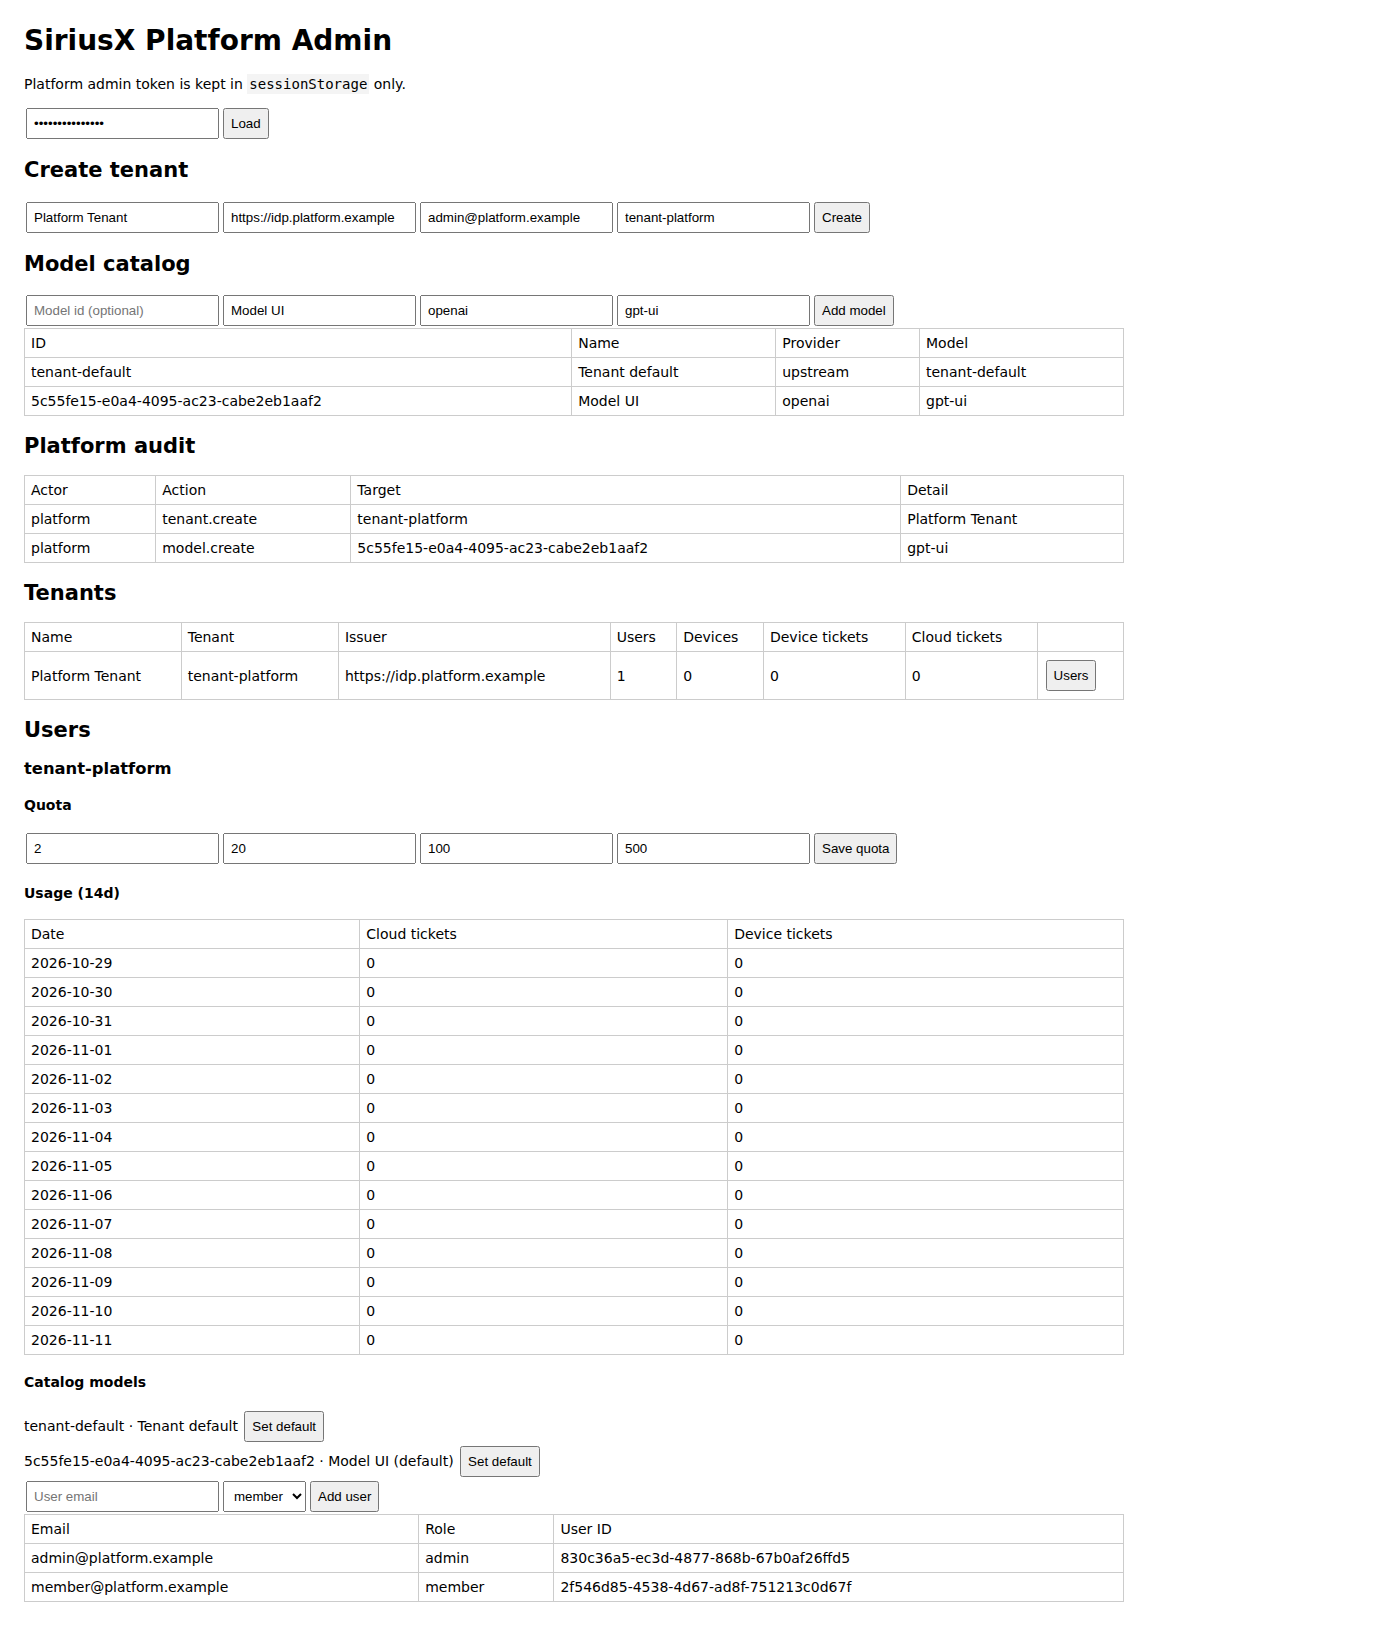
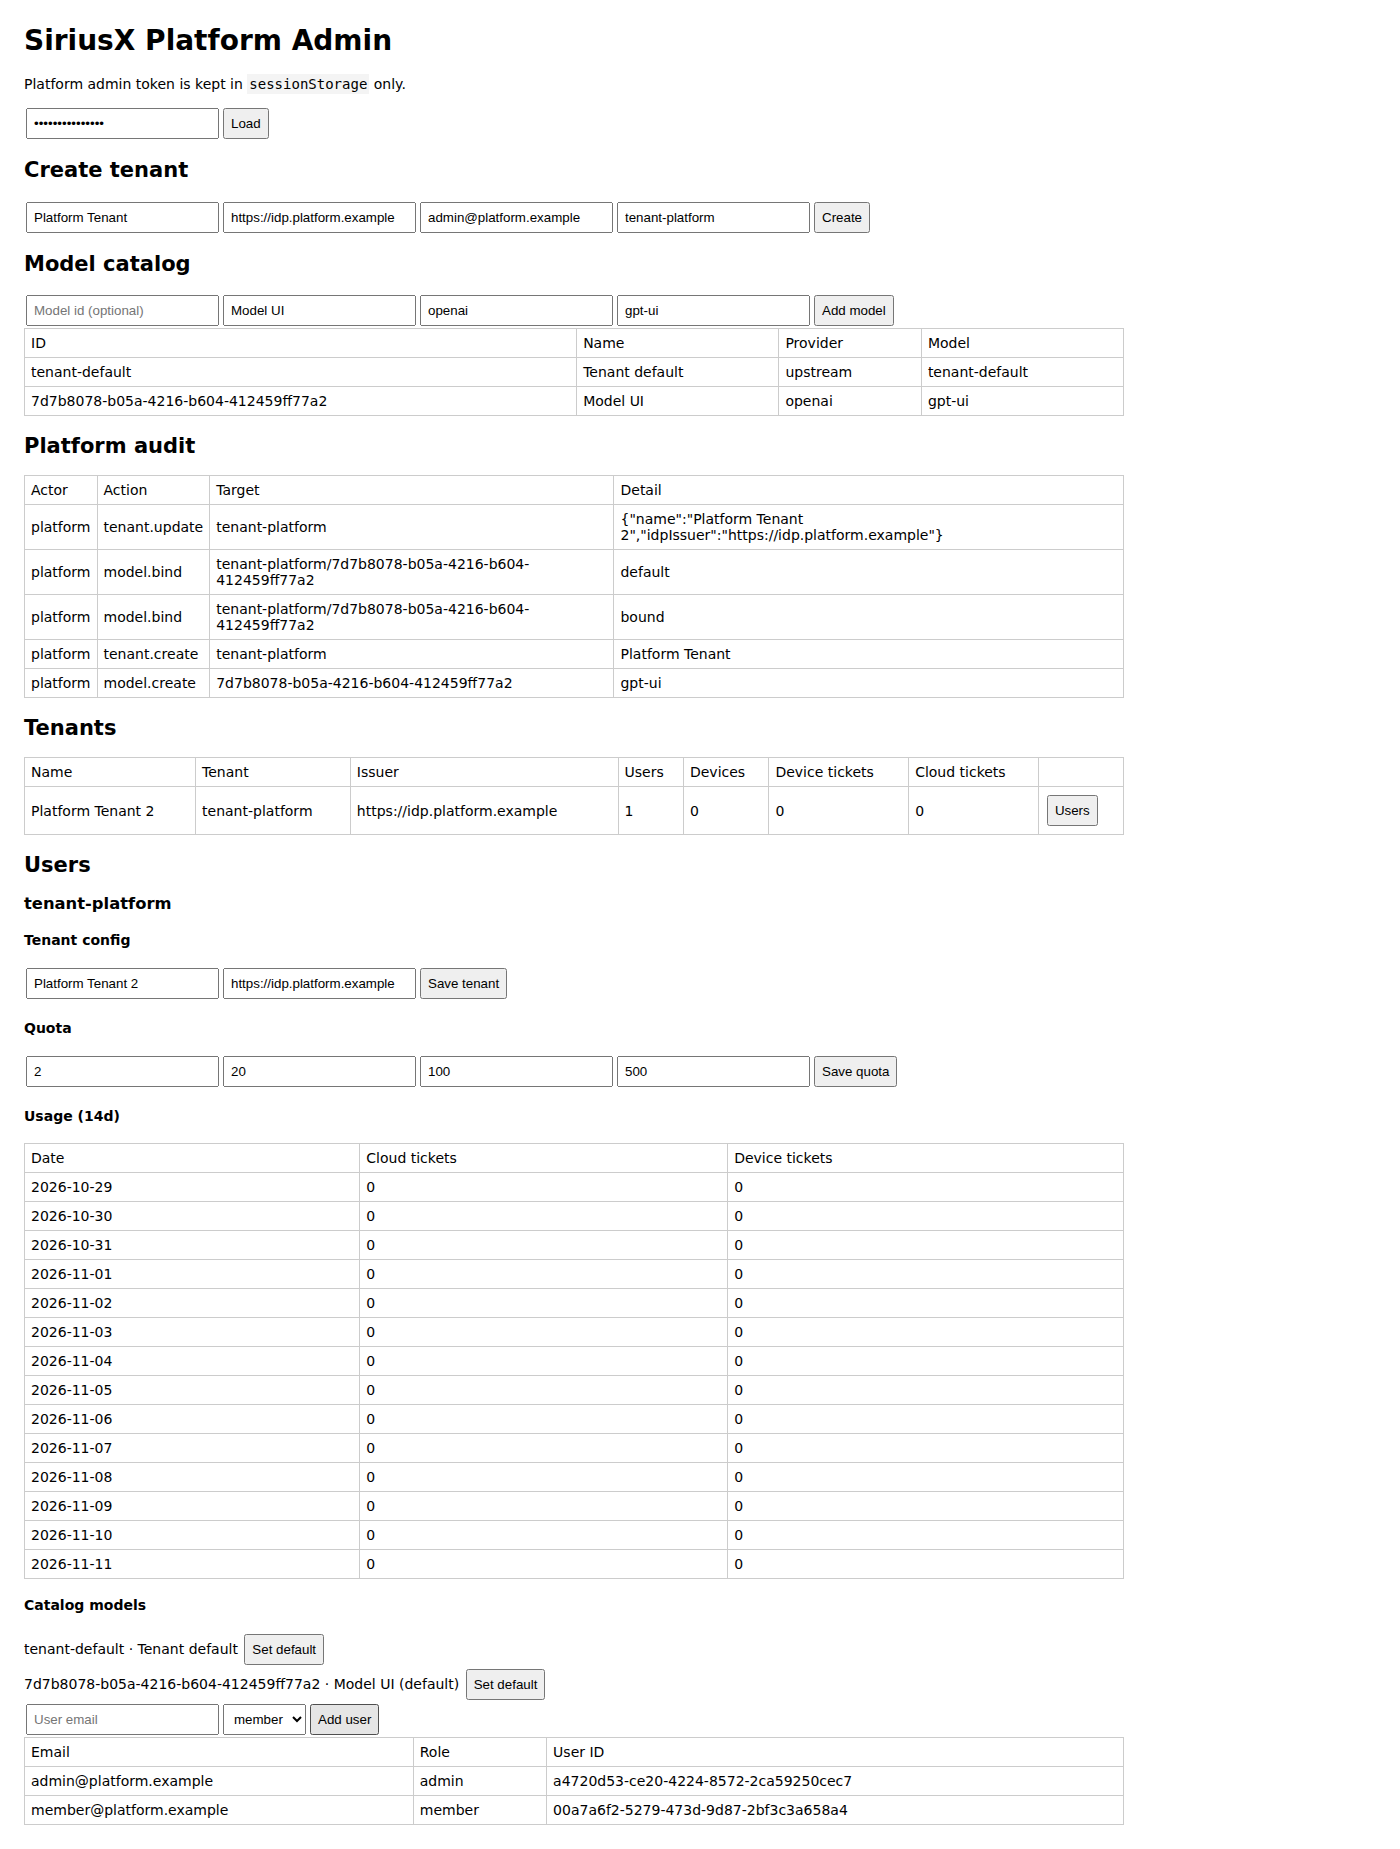
feat: edit tenant identity config from platform admin

diff --git a/apps/control-plane/src/server.ts b/apps/control-plane/src/server.ts
@@ -105,6 +105,7 @@ export async function startControlPlaneServer(options: ControlPlaneServerOptions
 <h2 id="usersTitle" style="display:none">Users</h2><div id="users"></div>
 <div id="error" style="color:#b00020"></div>
 <script>
+let tenantsCache = [];
 const token = () => sessionStorage.getItem('platformToken') || '';
 const headers = () => ({'x-siriusx-platform-token': token(), 'content-type': 'application/json'});
 const err = e => document.getElementById('error').textContent = e instanceof Error ? e.message : String(e);
@@ -127,6 +128,7 @@ async function loadModels() {
 async function loadTenants() {
   err('');
   const data = await api('/v1/admin/tenants');
+  tenantsCache = data.tenants;
   const host = document.getElementById('tenants'); host.textContent = '';
   const table = document.createElement('table'); table.append(row(['Name','Tenant','Issuer','Users','Devices','Device tickets','Cloud tickets','']));
   for (const tenant of data.tenants) {
@@ -140,6 +142,10 @@ async function loadUsers(tenantId) {
   const data = await api('/v1/admin/tenants/' + encodeURIComponent(tenantId) + '/users');
   const host = document.getElementById('users'); host.textContent = '';
   const h = document.createElement('h3'); h.textContent = tenantId; host.append(h);
+  const currentTenant = tenantsCache.find(item => item.id === tenantId) || { name: '', idpIssuer: '' };
+  const config = document.createElement('div'); config.innerHTML = '<h4>Tenant config</h4><input id="tenantName" placeholder="Tenant name"><input id="tenantIssuer" placeholder="IdP issuer"><button id="saveTenant">Save tenant</button>'; host.append(config);
+  config.querySelector('#tenantName').value = currentTenant.name; config.querySelector('#tenantIssuer').value = currentTenant.idpIssuer;
+  config.querySelector('#saveTenant').onclick = async () => { try { await api('/v1/admin/tenants/' + encodeURIComponent(tenantId), {method:'PUT', body: JSON.stringify({name: config.querySelector('#tenantName').value, idpIssuer: config.querySelector('#tenantIssuer').value})}); await loadTenants(); await loadUsers(tenantId); await loadPlatformAudit(); } catch (e) { err(e); } };
   const quota = await api('/v1/admin/tenants/' + encodeURIComponent(tenantId) + '/quota');
   const q = document.createElement('div'); q.innerHTML = '<h4>Quota</h4><input id="maxUsers" placeholder="Max users"><input id="maxDevices" placeholder="Max devices"><input id="maxCloud" placeholder="Max cloud/day"><input id="maxDevice" placeholder="Max device tickets/day"><button id="saveQuota">Save quota</button>'; host.append(q);
   q.querySelector('#maxUsers').value = quota.quota.maxUsers; q.querySelector('#maxDevices').value = quota.quota.maxDevices; q.querySelector('#maxCloud').value = quota.quota.maxCloudTicketsPerDay; q.querySelector('#maxDevice').value = quota.quota.maxDeviceTicketsPerDay;
@@ -236,6 +242,16 @@ document.getElementById('createTenant').onclick = async () => { try { await api(
           })
           control.recordPlatformAudit({ actor: 'platform', action: 'tenant.create', target: tenant.id, detail: tenant.name })
           write(response, 201, { tenant })
+          return
+        }
+        if (request.method === 'PUT' && parts[2] === 'tenants' && parts[3] !== undefined && parts[4] === undefined) {
+          const body = await readJson(request)
+          const tenant = control.updateTenant(parts[3], {
+            ...(typeof body.name === 'string' ? { name: body.name } : {}),
+            ...(typeof body.idpIssuer === 'string' ? { idpIssuer: body.idpIssuer } : {}),
+          })
+          control.recordPlatformAudit({ actor: 'platform', action: 'tenant.update', target: tenant.id, detail: JSON.stringify({ name: tenant.name, idpIssuer: tenant.idpIssuer }) })
+          write(response, 200, { tenant })
           return
         }
         if (parts[2] === 'models' && parts[3] === undefined) {

diff --git a/evidence/S5/15-platform-admin-ui/run.ts b/evidence/S5/15-platform-admin-ui/run.ts
@@ -32,6 +32,9 @@ try {
   await page.waitForTimeout(400)
   await page.getByRole('button', { name: 'Set default' }).last().click()
   await page.waitForTimeout(300)
+  await page.getByPlaceholder('Tenant name').fill('Platform Tenant 2')
+  await page.getByRole('button', { name: 'Save tenant' }).click()
+  await page.waitForTimeout(400)
   await page.getByPlaceholder('Max users').fill('2')
   await page.getByRole('button', { name: 'Save quota' }).click()
   await page.waitForTimeout(300)
@@ -40,7 +43,7 @@ try {
   await page.waitForTimeout(500)
   const body = await page.locator('body').innerText()
   await page.screenshot({ path: '/root/siriusx/evidence/S5/15-platform-admin-ui/admin.png', fullPage: true })
-  const result = { tenant: body.includes('tenant-platform'), usage: body.includes('Platform Tenant'), quota: body.includes('Quota') && body.includes('Save quota'), usageDaily: body.includes('Usage (14d)'), model: body.includes('Model UI') && body.includes('Catalog models'), audit: body.includes('Platform audit') && body.includes('tenant.create'), user: body.includes('member@platform.example'), errors }
+  const result = { tenant: body.includes('tenant-platform'), usage: body.includes('Platform Tenant 2'), quota: body.includes('Quota') && body.includes('Save quota'), usageDaily: body.includes('Usage (14d)'), model: body.includes('Model UI') && body.includes('Catalog models'), audit: body.includes('Platform audit') && body.includes('tenant.create'), user: body.includes('member@platform.example'), errors }
   console.log(JSON.stringify(result, null, 2))
   if (!result.tenant || !result.usage || !result.quota || !result.usageDaily || !result.model || !result.audit || !result.user || errors.length > 0) process.exitCode = 1
 } finally {

diff --git a/apps/control-plane/src/index.ts b/apps/control-plane/src/index.ts
@@ -262,6 +262,14 @@ export class ControlPlane {
     return { id, name: input.name, idpIssuer: input.idpIssuer, createdAt: now }
   }
 
+  updateTenant(tenantId: string, patch: { name?: string; idpIssuer?: string }): Tenant {
+    const current = this.tenantRow(tenantId)
+    const name = patch.name ?? current.name
+    const idpIssuer = patch.idpIssuer ?? current.idp_issuer
+    this.#db.prepare('UPDATE tenants SET name = ?, idp_issuer = ? WHERE id = ?').run(name, idpIssuer, tenantId)
+    return { id: tenantId, name, idpIssuer, createdAt: current.created_at }
+  }
+
   listTenants(): Tenant[] {
     return (this.#db.prepare('SELECT * FROM tenants ORDER BY created_at, rowid').all() as Array<{
       id: string; name: string; idp_issuer: string; created_at: number

diff --git a/docs/status.md b/docs/status.md
@@ -8,7 +8,7 @@
 | S3 本机闭环 | `packages/executor-local`、`plugins/executor-local`、`apps/autobot` | `evidence/S3/` | **完成**：真实 DSH AgentLoop、Bot/DSH Web Host SIGKILL/重启、模型断线、previews/TTL/进程组清理/env 隔离/symlink 越界防护、lost 自动 resume 重试、sandbox orphan sweep + systemd timer 通过；tag `executor-v0.1.0` |
 | S4 工单界面 | 四个独立 client package + `packages/app-contract` + `apps/autobot/src/server.ts` | `evidence/S4/` | **部分**：发起/阶段/diff/排序/断线清空/审批/慢任务打断、四插件拆分通过；10 天自用待补 |
 | S5 登录/租户 | `plugins/account-sso`、`apps/control-plane`（含 device gateway/model gateway）、Desktop enterprise gate | `evidence/S5/` | **部分**：OIDC/隔离/配对/长连接/模型网关/隐私 badge/个人 Bot 派工/原生入口管理员开关、全栈离线一键安装、session TTL 过期拒绝、server-side revocation、server-side authority 通过；真实 IdP、KMS 待补 |
-| S6 工具网关 | `apps/tool-gateway`、`packages/analytics`、local_dir 上行过滤 | `evidence/S6/` | **部分**：审批过期 sweep/审计/fail-closed/分级/Bot 事件接线/完整 ticket trace + audit chain 状态 + tenant-scoped audit、管理面 API/UI + 平台运营 `/admin` + tenant quota enforcement、model catalog/binding/runtime enforcement、tenant tool policy/audit summary/platform audit、daily usage trend、tool-gateway 默认无 wildcard CORS、audit hash chain + verify endpoint/Vault KV v1+v2、TTL 轮换与 fail-closed 凭据适配、模型 key 抓包隔离、agent env/audit 凭据隔离、设备离线宽限 lost + 宽限期内重连恢复通过；真实 KMS/Vault 待补 |
+| S6 工具网关 | `apps/tool-gateway`、`packages/analytics`、local_dir 上行过滤 | `evidence/S6/` | **部分**：审批过期 sweep/审计/fail-closed/分级/Bot 事件接线/完整 ticket trace + audit chain 状态 + tenant-scoped audit、管理面 API/UI + 平台运营 `/admin` + tenant quota enforcement、model catalog/binding/runtime enforcement、tenant tool policy/audit summary/platform audit、daily usage trend、tenant SSO/config editing、tool-gateway 默认无 wildcard CORS、audit hash chain + verify endpoint/Vault KV v1+v2、TTL 轮换与 fail-closed 凭据适配、模型 key 抓包隔离、agent env/audit 凭据隔离、设备离线宽限 lost + 宽限期内重连恢复通过；真实 KMS/Vault 待补 |
 | S7 云执行 | `packages/cloud-executor`、`packages/kernel-acp` | `evidence/S7/` | **部分**：Docker/ACP/真实 dsh+pi（含 sandbox）/同工单内核一致性、本地/云端 DSH 事件序列一致性、ACP 边界/卷并发决策/云端 repo clone/沙箱 dispose/assignment timeout/资源限额+cap-drop/no-new-privileges+env+出口 allowlist/SQLite 恢复/GitHub/GitLab connector、gateway 审批写、mock Issue→MR 通过；真实平台 Issue→MR、M2 真崩溃待补 |
 | S8 发布 | `plugins/brand-siriusx`、`deploy/release`、`deploy/offline` | `evidence/S8/` | **部分**：品牌/图标/打包参数、Linux 全依赖离线 tar（含 sandbox image）、DSH Web 离线镜像、全栈 Compose、internal 网络隔离、断网 Debian 容器安装、native/Docker 单机安装、全栈离线一键包、health version/commit、`/ready` 就绪探针、Compose healthcheck、企业插件 bundle/资源清单、更新源 static feed（realpath 防 traversal）、本地发布门禁、脚本可移植性检查、发布清单、CycloneDX SBOM（transitive + license）+ license policy gate、补丁回移演练通过；mac/win 签名安装与全服务干净机验收待补 |
 | S9 Web | DSH Web Host + Team panel control-plane 模式 | `evidence/S9/` | **部分**：同插件复用、两租户隔离、HttpOnly cookie 同源网关、OIDC state cookie 绑定、浏览器 OIDC（本地 HS256/RS256 JWKS IdP）登录并看工单、同工单跨接入模式渲染一致、无原生对话/本地目录入口、Web 审批、HTTP/WS Origin 校验（支持 forwarded headers）、登录限流/trusted proxy IP、1 MiB 请求体/WS frame 上限、Secure cookie、login CSP/HSTS、local logout / OIDC RP-initiated logout、云端 repo URL 校验、项目发起/打断/重启对账/follow-up（API + Team UI，Docker+fake ACP）通过；真实企业 IdP/真实 agent 待补 |

diff --git a/evidence/S5/15-platform-admin-ui/README.md b/evidence/S5/15-platform-admin-ui/README.md
@@ -13,7 +13,7 @@ Control Plane 新增独立 `/admin` 页面：
 - 创建 `tenant-platform`
 - 页面显示 Platform Tenant 与 usage 计数
 - 新增 `member@platform.example`
-- 新增 Model UI，保存租户 quota，展示 14 天 usage，绑定模型，Platform audit 显示 tenant.create
+- 新增 Model UI，保存租户 quota，展示 14 天 usage，编辑 tenant name/issuer，绑定模型，Platform audit 显示 tenant.create
 - console errors 为空
 
 CSP：

diff --git a/evidence/S5/20-tenant-config/README.md b/evidence/S5/20-tenant-config/README.md
@@ -1,0 +1,9 @@
+# Tenant SSO/config editing
+
+- `ControlPlane.updateTenant(tenantId, {name, idpIssuer})`
+- `PUT /v1/admin/tenants/:id`
+- 平台操作记录 `tenant.update` 到 Platform audit
+- `/admin` 租户用户页新增 Tenant config 表单
+
+浏览器实测：把 `Platform Tenant` 改为 `Platform Tenant 2` 并保存，页面刷新后读取到新名称。
+证据：`typecheck.txt`、`ui-typecheck.txt`、`../15-platform-admin-ui/admin.png`。

diff --git a/TODO.md b/TODO.md
@@ -70,6 +70,7 @@
 - [x] Tenant audit summary（tool gateway aggregate + Admin UI）
 - [x] Platform admin audit trail（tenant/model/quota/user operations）
 - [x] Daily usage trend（cloud/device tickets）
+- [x] Tenant SSO/config editing + platform audit
 - [x] Web Gateway 支持 X-Forwarded-Proto/Host 的 HTTPS Origin
 - [x] Trusted proxy 下的登录限流按 X-Forwarded-For 区分客户端
 - [x] HTTPS 下返回 HSTS
